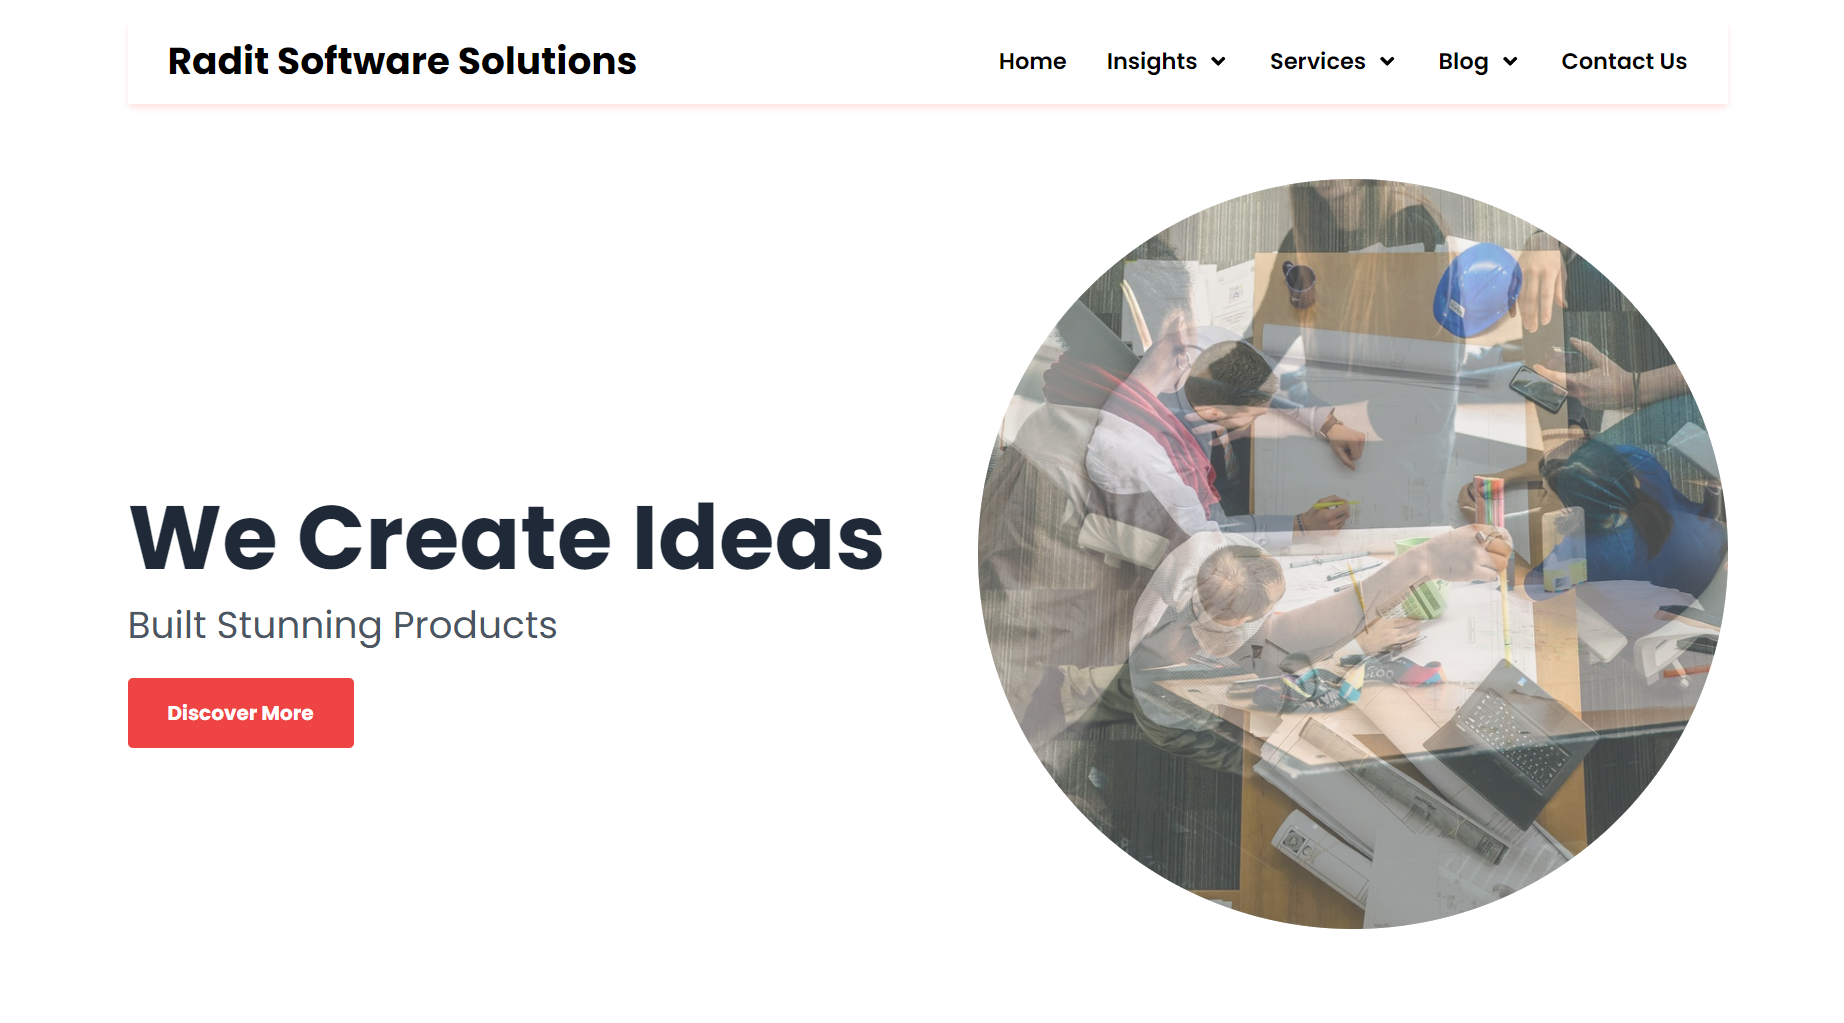
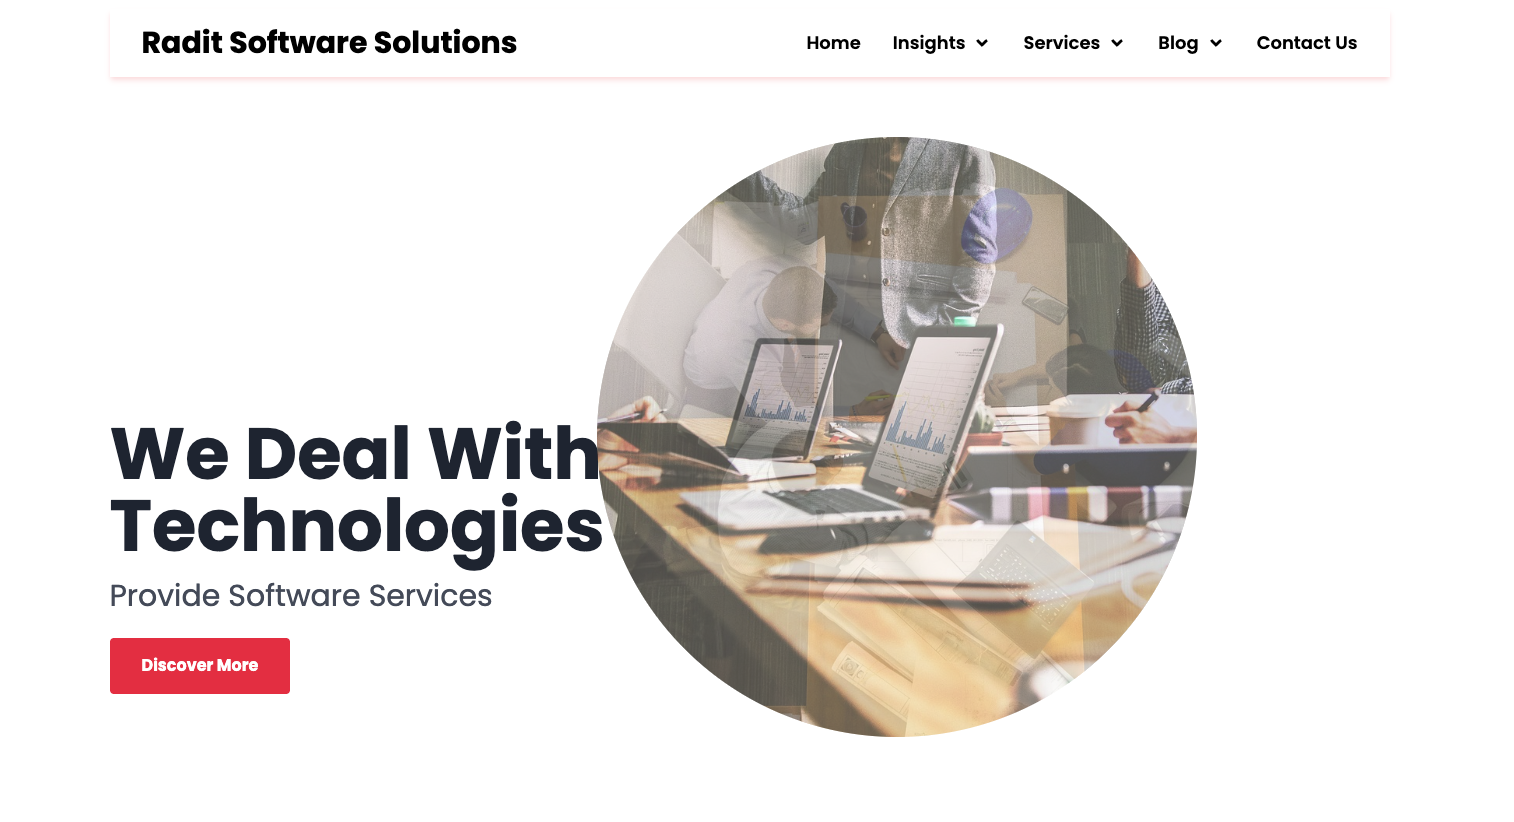
add projects

diff --git a/src/components/Projects.jsx b/src/components/Projects.jsx
@@ -19,11 +19,39 @@ const projects = [
     desc: "Adventure travel platform with responsive design, booking flows, and destination guides.",
   },
   {
+    title: "Blackberry Technologies",
+    category: "IT Company",
+    image: "/src/assets/black.png",
+    link: "https://www.blackberrytechnologies.net/",
+    desc: "IT Company providing IT Services",
+  },
+  {
     title: "Hotel River Vale",
     category: "Hotel",
     image: "/src/assets/rivervale.png",
     link: "https://hotelrivervale.com/",
     desc: "Hospitality website with reservation system, property showcases, and clean landing pages.",
+  },
+  {
+    title: "Innocreate Design",
+    category: "Product Design Company",
+    image: "/src/assets/icg.png",
+    link: "https://innocreate-design.netlify.app/",
+    desc: "Product Design Company",
+  },
+  {
+    title: "Raddit Software",
+    category: "Software Company",
+    image: "/src/assets/radit.png",
+    link: "https://radit-software.netlify.app/",
+    desc: "",
+  },
+  {
+    title: "Honda Showroom",
+    category: "Honda Showroom",
+    image: "/src/assets/honda.png",
+    link: "https://www.aashirwadhondashowroom.in/",
+    desc: "",
   },
   {
     title: "Anandam Homestay",
@@ -36,14 +64,30 @@ const projects = [
     title: "Prakriti Hill Resort",
     category: "Hotel",
     image: "/src/assets/hill.png",
-    link: "#",
+    link: "https://www.prakritihillresort.in/",
     desc: "Resort landing page with property tours, amenities, and contact details.",
   },
+  {
+    title: "Hotel Le Meadows",
+    category: "Hotel",
+    image: "/src/assets/le.png",
+    link: "https://lee-meadows.vercel.app/",
+    desc: "Luxury hotel website with gallery, services, and room showcases.",
+  },
+
+  {
+    title: "Le Meadows Landing Pahe",
+    category: "Hotel",
+    image: "/src/assets/le-details.png",
+    link: "https://www.lemeadowsb2bdetails.in/",
+    desc: "Luxury hotel website with gallery, services, and room showcases.",
+  },
+
   {
     title: "Dev Palace",
     category: "Hotel",
     image: "/src/assets/dev.png",
-    link: "#",
+    link: "https://devpalace.in/",
     desc: "Luxury hotel website with gallery, services, and room showcases.",
   },
 ];
